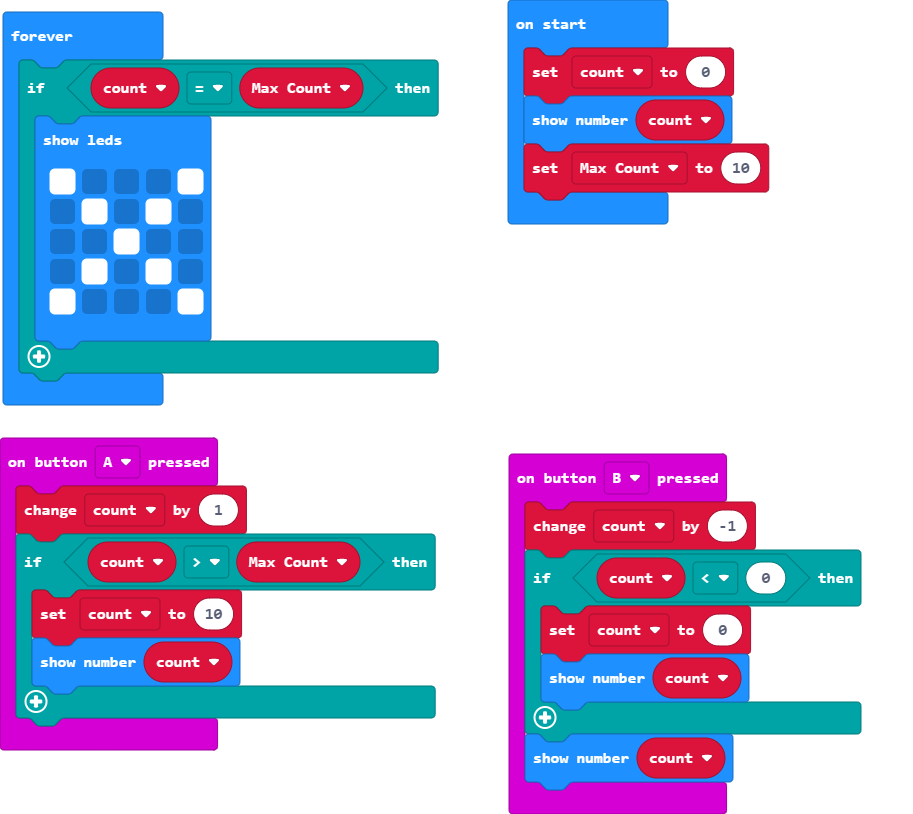
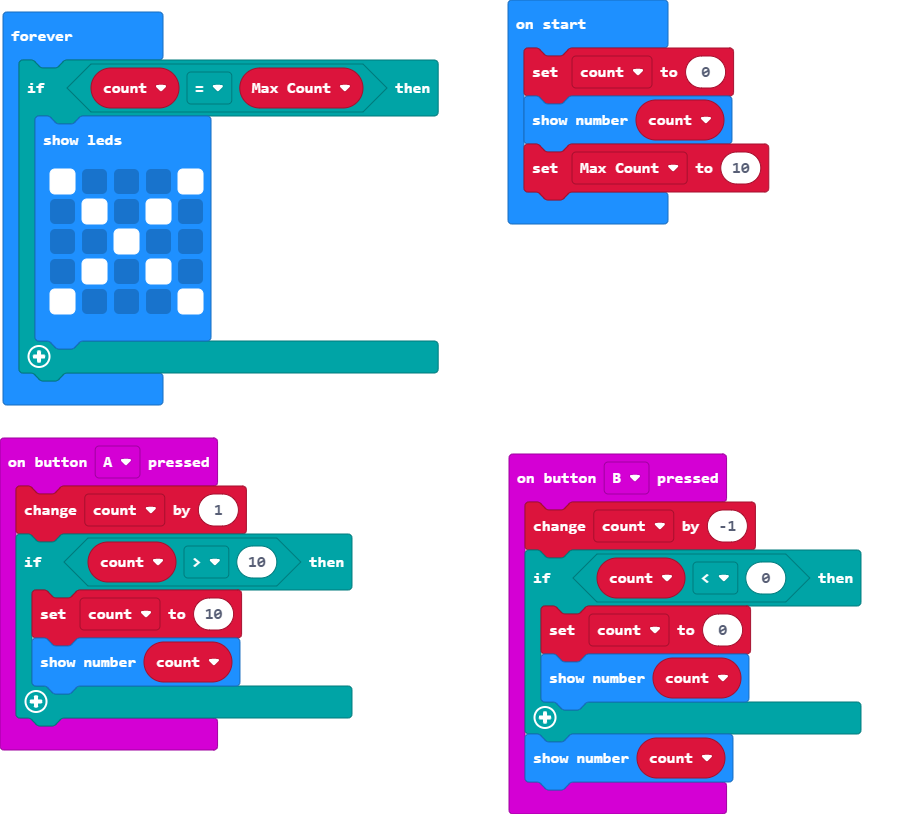
Update main.blocks, main.ts

Changed region(s): [[0.2453, 0.645, 0.4907, 0.7371], [0.368, 0.8292, 0.4907, 0.8907]]

diff --git a/main.ts b/main.ts
@@ -1,6 +1,6 @@
 input.onButtonPressed(Button.A, function () {
     count += 1
-    if (count > Max_Count) {
+    if (count > 10) {
         count = 10
         basic.showNumber(count)
     }
@@ -13,11 +13,10 @@ input.onButtonPressed(Button.B, function () {
     }
     basic.showNumber(count)
 })
-let Max_Count = 0
 let count = 0
 count = 0
 basic.showNumber(count)
-Max_Count = 10
+let Max_Count = 10
 basic.forever(function () {
     if (count == Max_Count) {
         basic.showLeds(`
